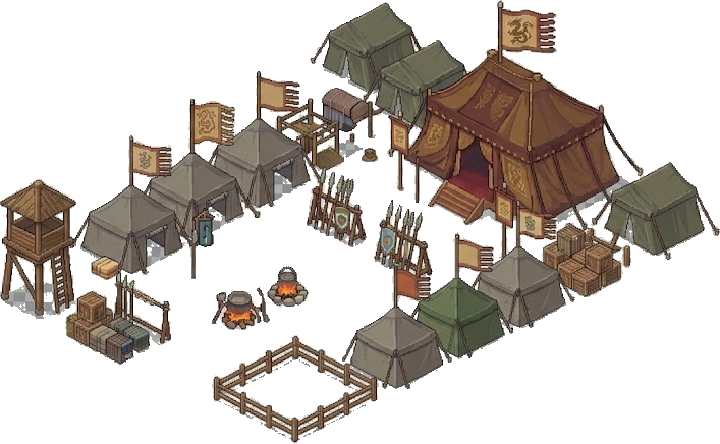
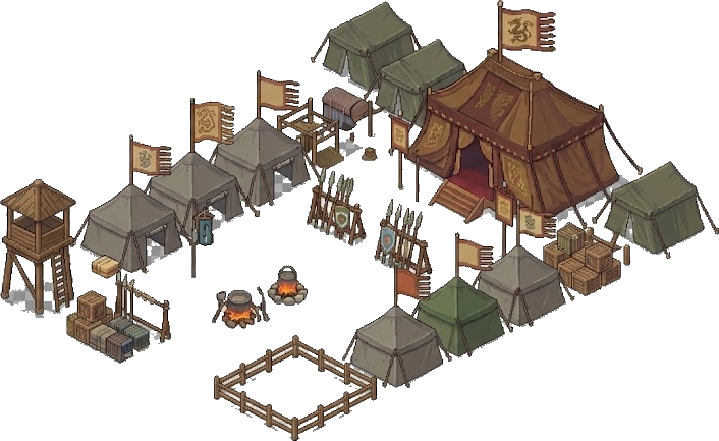
Campamento: quita el halo blanco del sprite y re-ancla para no pisar la muralla
- De-fringe del WebP (anillo claro lindante con transparencia) → sin contorno blanco.
- oy 79→57 para meter la base de la tienda norte dentro del footprint 8×10.
- Meta ox:396 oy:57 w:719 h:441; SPRITE_VER 27; iso-sprites-extra ?v=4.

diff --git a/assets/js/hac-iso.js b/assets/js/hac-iso.js
@@ -20,7 +20,7 @@ const HacIso = (function () {
   const TOP_MARGIN = 132;             // hueco arriba para edificios altos, murallas y torres
   const PAD_X = 40;                   // margen lateral para murallas y paseo de ronda
   const SPRITE_BASE = 'assets/img/iso/';
-  const SPRITE_VER = '25';  // súbelo al regenerar los PNG (cache-busting)
+  const SPRITE_VER = '27';  // súbelo al regenerar los PNG (cache-busting)
 
   // ── Color helpers (para el placeholder) ─────────────────────────────────
   const { hexToRgb, clamp255: cl } = HacUtil;

diff --git a/assets/js/iso-sprites-extra.js b/assets/js/iso-sprites-extra.js
@@ -9,5 +9,5 @@
   // Campamento militar (8×10): vista ÚNICA a partir de la ilustración (un solo
   // sprite, sin cuantizar para no perder los degradados). No rota: spriteKey en
   // hac-iso cae a '-0' para cualquier rotación. Anclaje (ox,oy) afinado al footprint.
-  window.ISO_SPRITES_META['bld-campamento-0'] = { ox: 396, oy: 79, w: 720, h: 444, webp: true };
+  window.ISO_SPRITES_META['bld-campamento-0'] = { ox: 396, oy: 57, w: 719, h: 441, webp: true };
 })();

diff --git a/haciendas.html b/haciendas.html
@@ -81,7 +81,7 @@
 <script src="assets/js/hac-solicitudes.js?v=1"></script>
 <script src="assets/js/hac-render.js?v=4"></script>
 <script src="assets/js/iso-sprites-meta.js?v=16"></script>
-<script src="assets/js/iso-sprites-extra.js?v=2"></script>
+<script src="assets/js/iso-sprites-extra.js?v=4"></script>
 <script src="assets/js/hac-flora.js?v=1"></script>
 <script src="assets/js/hac-iso.js?v=56"></script>
 <script src="assets/js/hac-dialog.js?v=2"></script>

diff --git a/hacienda.html b/hacienda.html
@@ -40,7 +40,7 @@
 <script src="assets/js/hac-render.js?v=4"></script>
 <script src="assets/js/hac-pixel.js?v=3"></script>
 <script src="assets/js/iso-sprites-meta.js?v=16"></script>
-<script src="assets/js/iso-sprites-extra.js?v=2"></script>
+<script src="assets/js/iso-sprites-extra.js?v=4"></script>
 <script src="assets/js/hac-flora.js?v=1"></script>
 <script src="assets/js/hac-iso.js?v=56"></script>
 <script src="assets/js/hac-dialog.js?v=2"></script>
